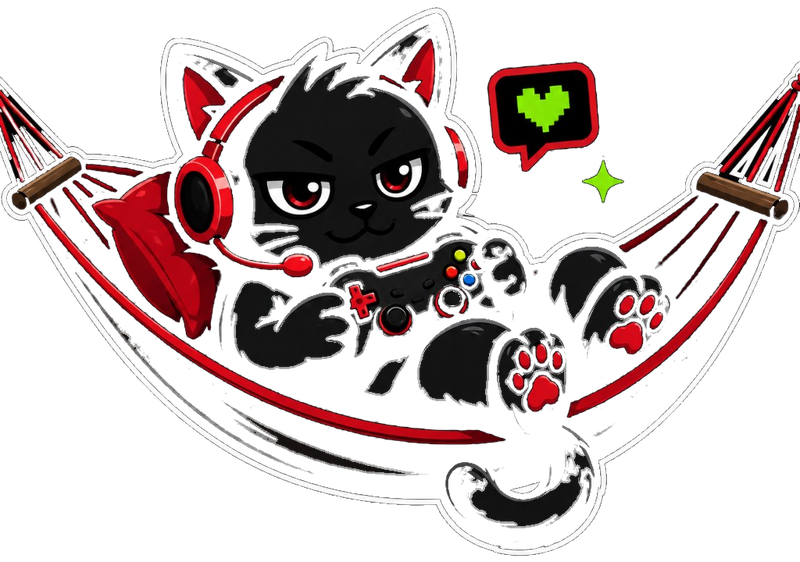
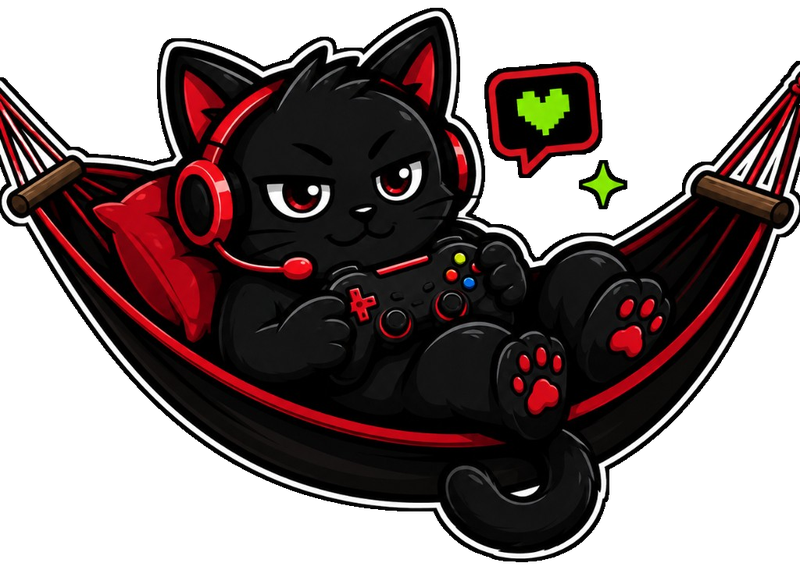
fix(web): fill mascot cutout and simplify login brand

diff --git a/apps/web/src/app/login/page.tsx b/apps/web/src/app/login/page.tsx
@@ -38,13 +38,14 @@ export default function LoginPage() {
 
   return (
     <main className="relative z-10 mx-auto flex min-h-screen max-w-md flex-col justify-center px-4">
-      <div className="mb-6 flex justify-end">
+      <div className="mb-8 flex justify-end">
         <ThemeToggle />
       </div>
-      <BrandMascot />
-      <BrandWordmark large mascot={false} />
-      <h1 className="mt-2 text-3xl font-semibold text-fg sm:text-4xl">Sua vida social, em um só lugar.</h1>
-      <p className="mt-3 mb-8 text-muted">Entre para ver rolês, memórias e a trilha da galera.</p>
+      <h1 className="sr-only">Entrar no Redesenha</h1>
+      <div className="login-brand">
+        <BrandMascot />
+        <BrandWordmark large mascot={false} />
+      </div>
       <form onSubmit={onSubmit} className="card space-y-4 p-6">
         <Field label="E-mail">
           <Input type="email" value={email} onChange={(e) => setEmail(e.target.value)} required autoComplete="email" />

diff --git a/apps/web/src/app/globals.css b/apps/web/src/app/globals.css
@@ -270,17 +270,24 @@ html[data-theme] body {
 }
 
 .brand-wordmark--lg .brand-wordmark-img {
-  height: 3.5rem;
-  max-width: 16rem;
+  height: 4.75rem;
+  max-width: 22rem;
+}
+
+.login-brand {
+  display: flex;
+  flex-direction: column;
+  align-items: center;
+  margin-bottom: 2rem;
 }
 
 .brand-mascot-hero {
   display: block;
-  height: 9.5rem;
+  height: 11.5rem;
   width: auto;
-  max-width: 14rem;
+  max-width: 17rem;
   object-fit: contain;
-  margin-bottom: 0.85rem;
+  margin: 0 auto 0.4rem;
 }
 
 nav,

diff --git a/apps/web/src/components/BrandWordmark.tsx b/apps/web/src/components/BrandWordmark.tsx
@@ -10,7 +10,7 @@ const WORDMARK = {
 const MASCOT = {
   src: '/brand/mascote.png',
   width: 800,
-  height: 562,
+  height: 570,
 };
 
 export function BrandWordmark({
